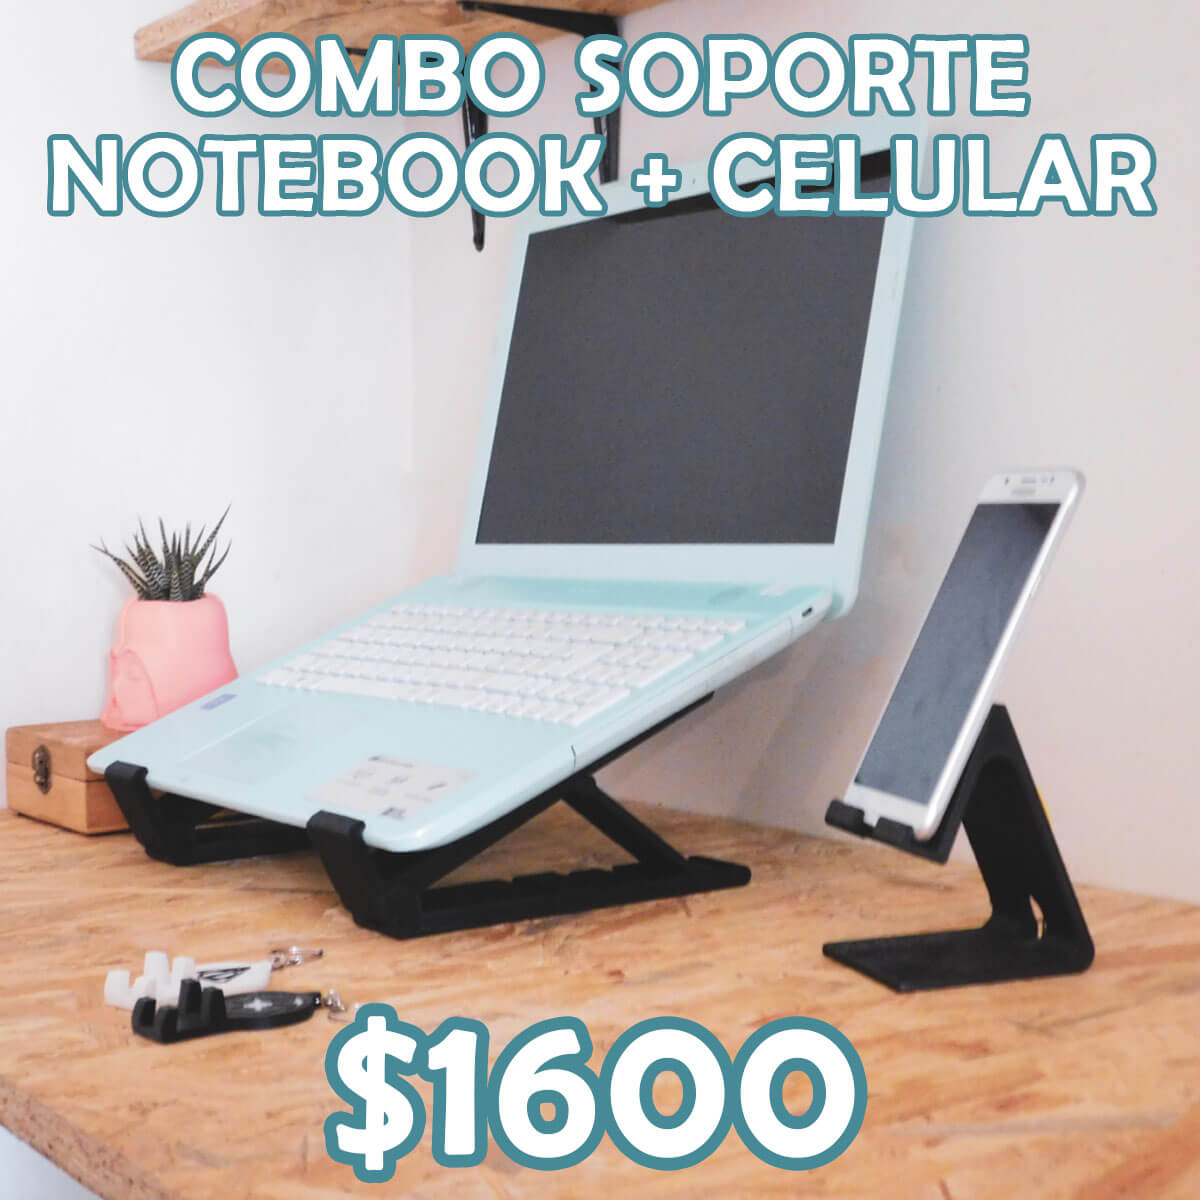
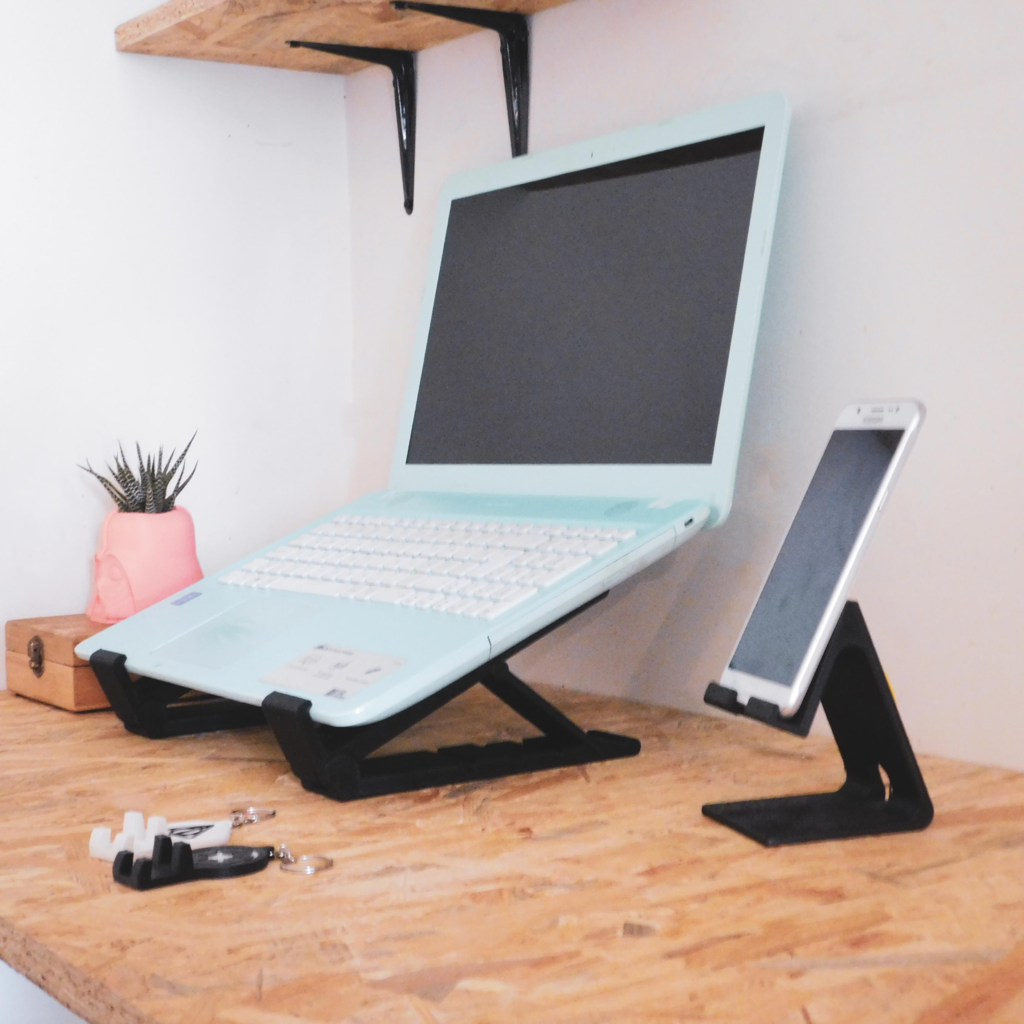
texto novedades

Changed region(s): [[0.0312, 0.0, 0.9688, 0.1875], [0.25, 0.8125, 0.75, 1.0]]

diff --git a/scss/layout/_body.scss b/scss/layout/_body.scss
@@ -1,32 +1,29 @@
 body {
     background-color: $bg-color;
 }
-header{
+
+header {
     background-color: $bg-color;
     text-align: center;
     position: sticky;
     top: 0px;
     z-index: 1;
-    nav{
-        ul{
-            li{
-                a{
-                    &:hover{
-                        font-weight: bold;
-                    }
-                }
-            }
-        }
+    
+    nav ul li a:hover {
+        font-weight: bold;
     }
 }
-.contenedor{
+
+.contenedor {
     min-height: calc(100vh - 103.83px - 140.83px);
 }
-.boton{
+
+.boton {
     border: 1px $color-boton;
     background-color: $color-boton;
     color: $color-secundario;
 }
-.boton:visited{
+
+.boton:visited {
     @extend .boton
 }

diff --git a/pages/novedades.html b/pages/novedades.html
@@ -70,8 +70,9 @@
                 <div class="card p-2 m-2 shadow rounded" style="width: 18rem;">
                     <img src="../img/combo-soporte.jpg" class="card-img-top" alt="combo soporte notbook y celular">
                     <div class="card-body">
-                        <p class="card-text">Lorem ipsum dolor sit amet consectetur adipisicing elit. Soluta, maxime.
-                        </p>
+                        <h3 class="letra-P text-center">COMBO</h3>
+                        <p class="card-text text-center m-0">Soporte notebook + celular</p>
+                        <p class="fw-bold text-center">$1600</p>
                     </div>
                 </div>
             </div>
